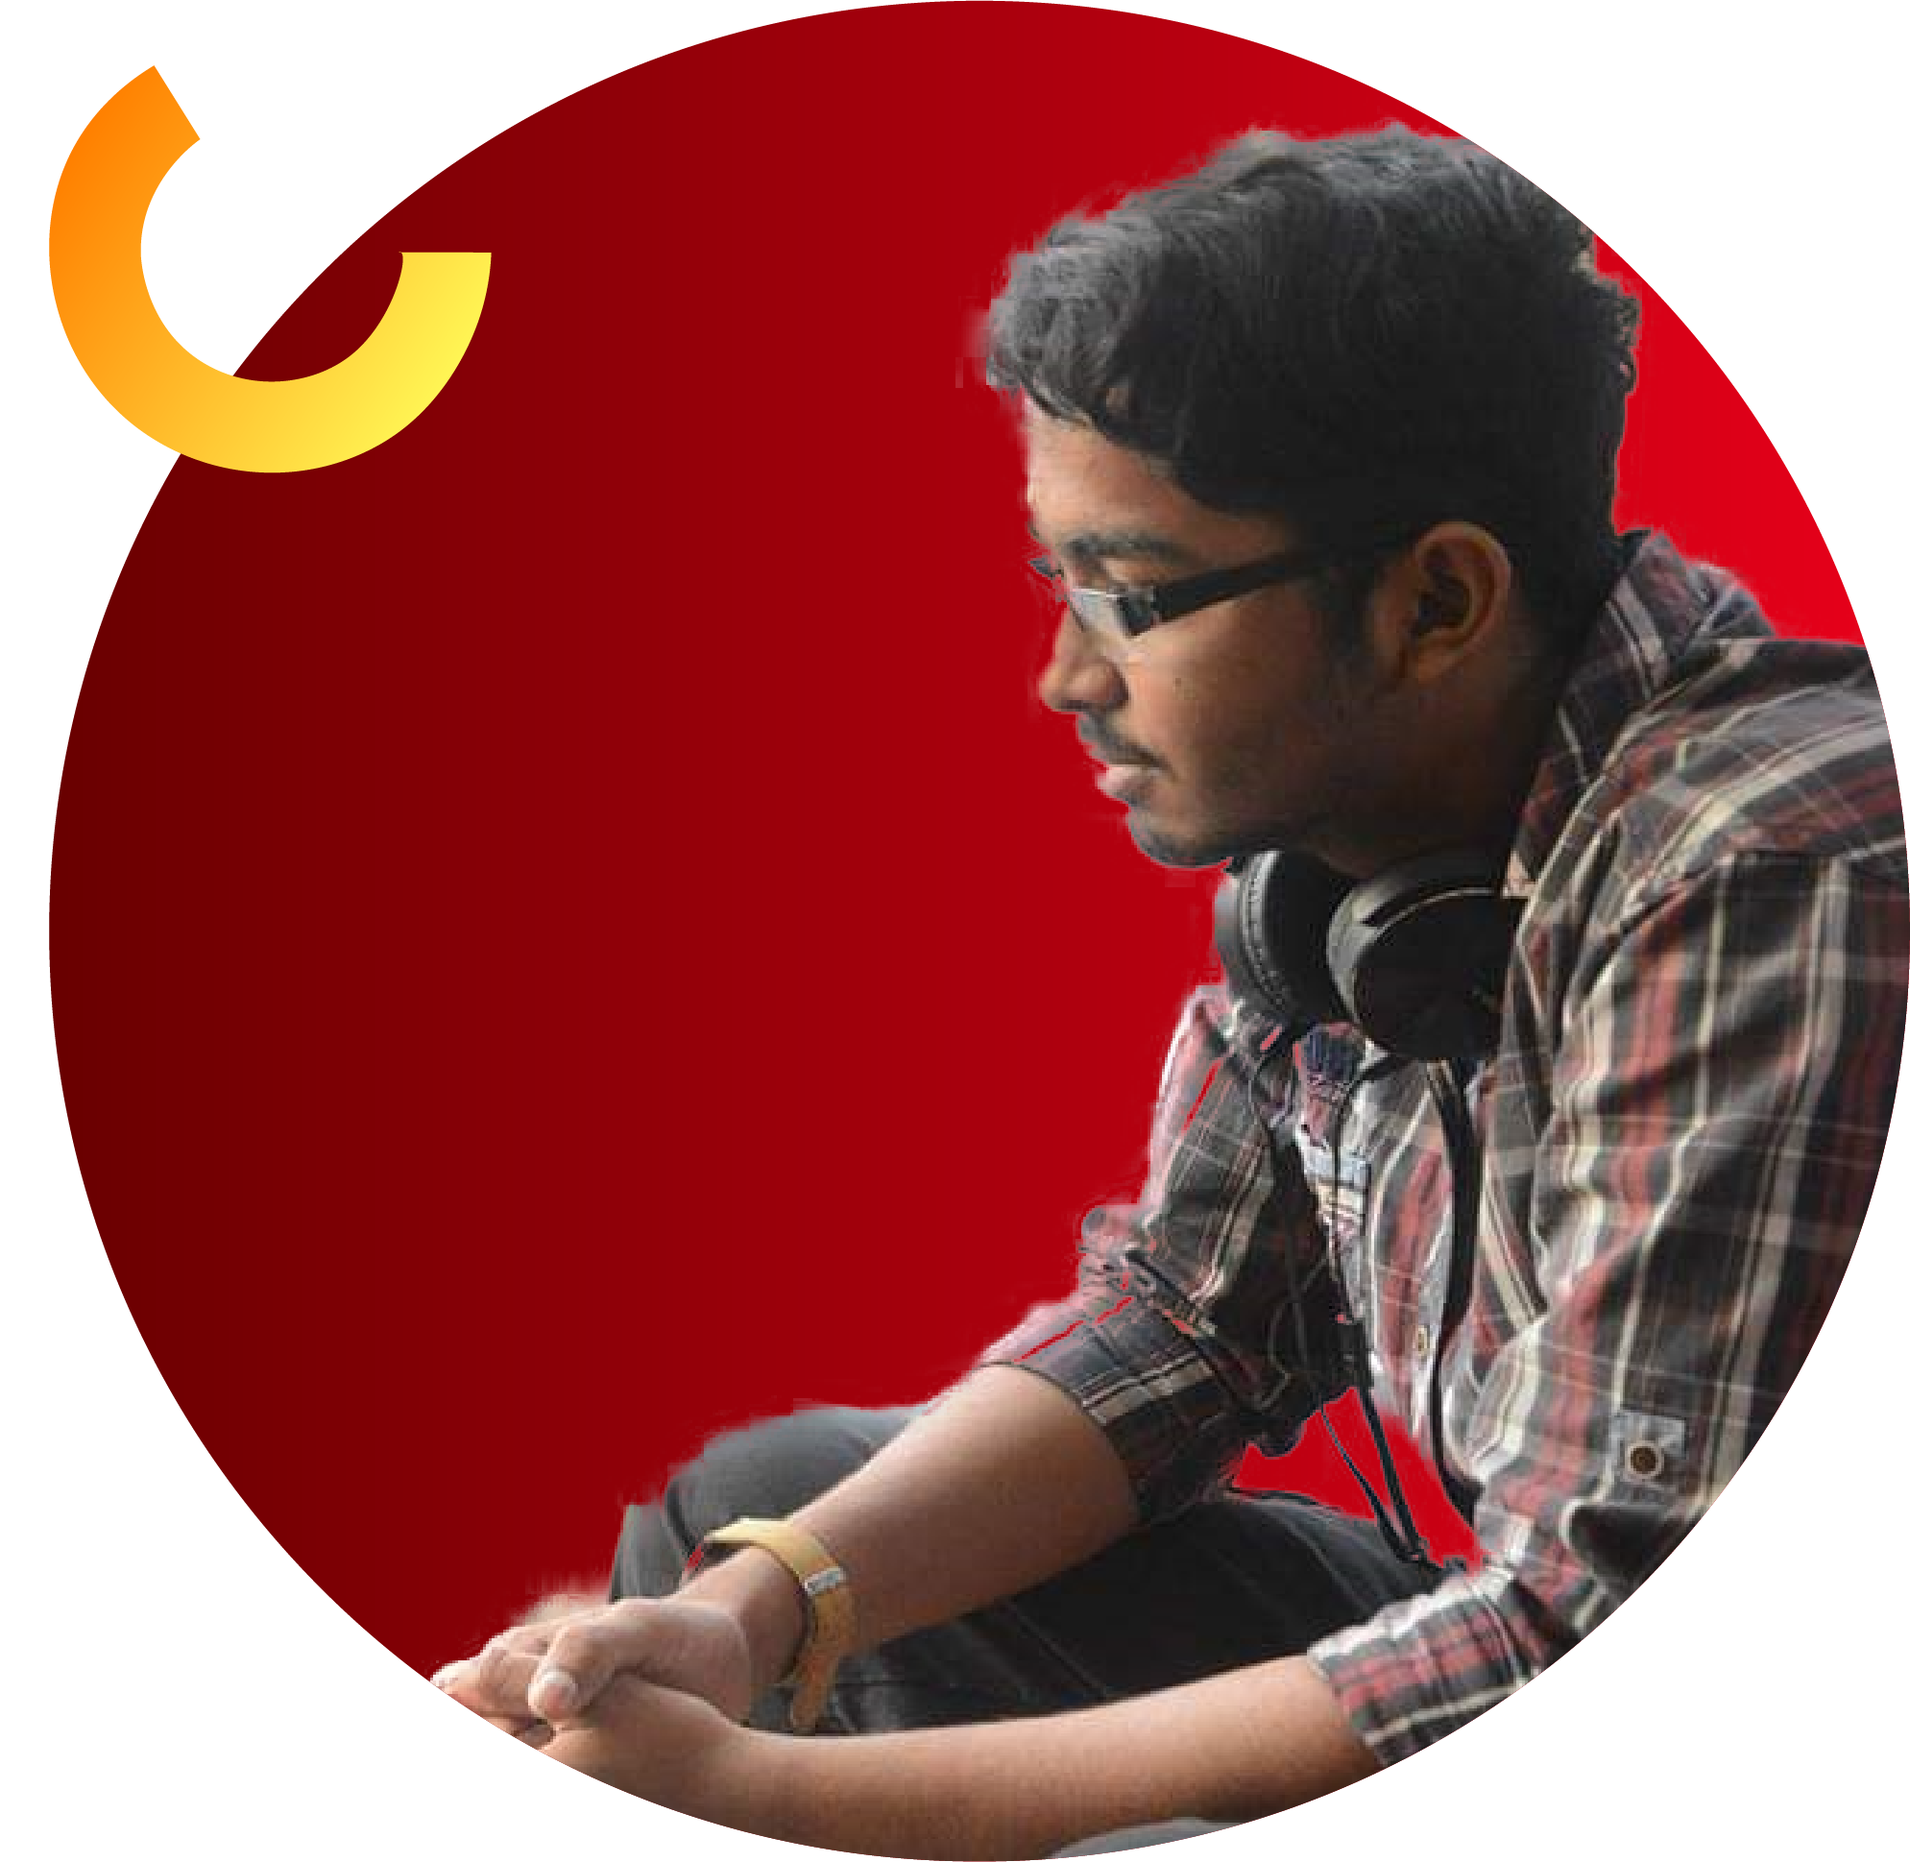
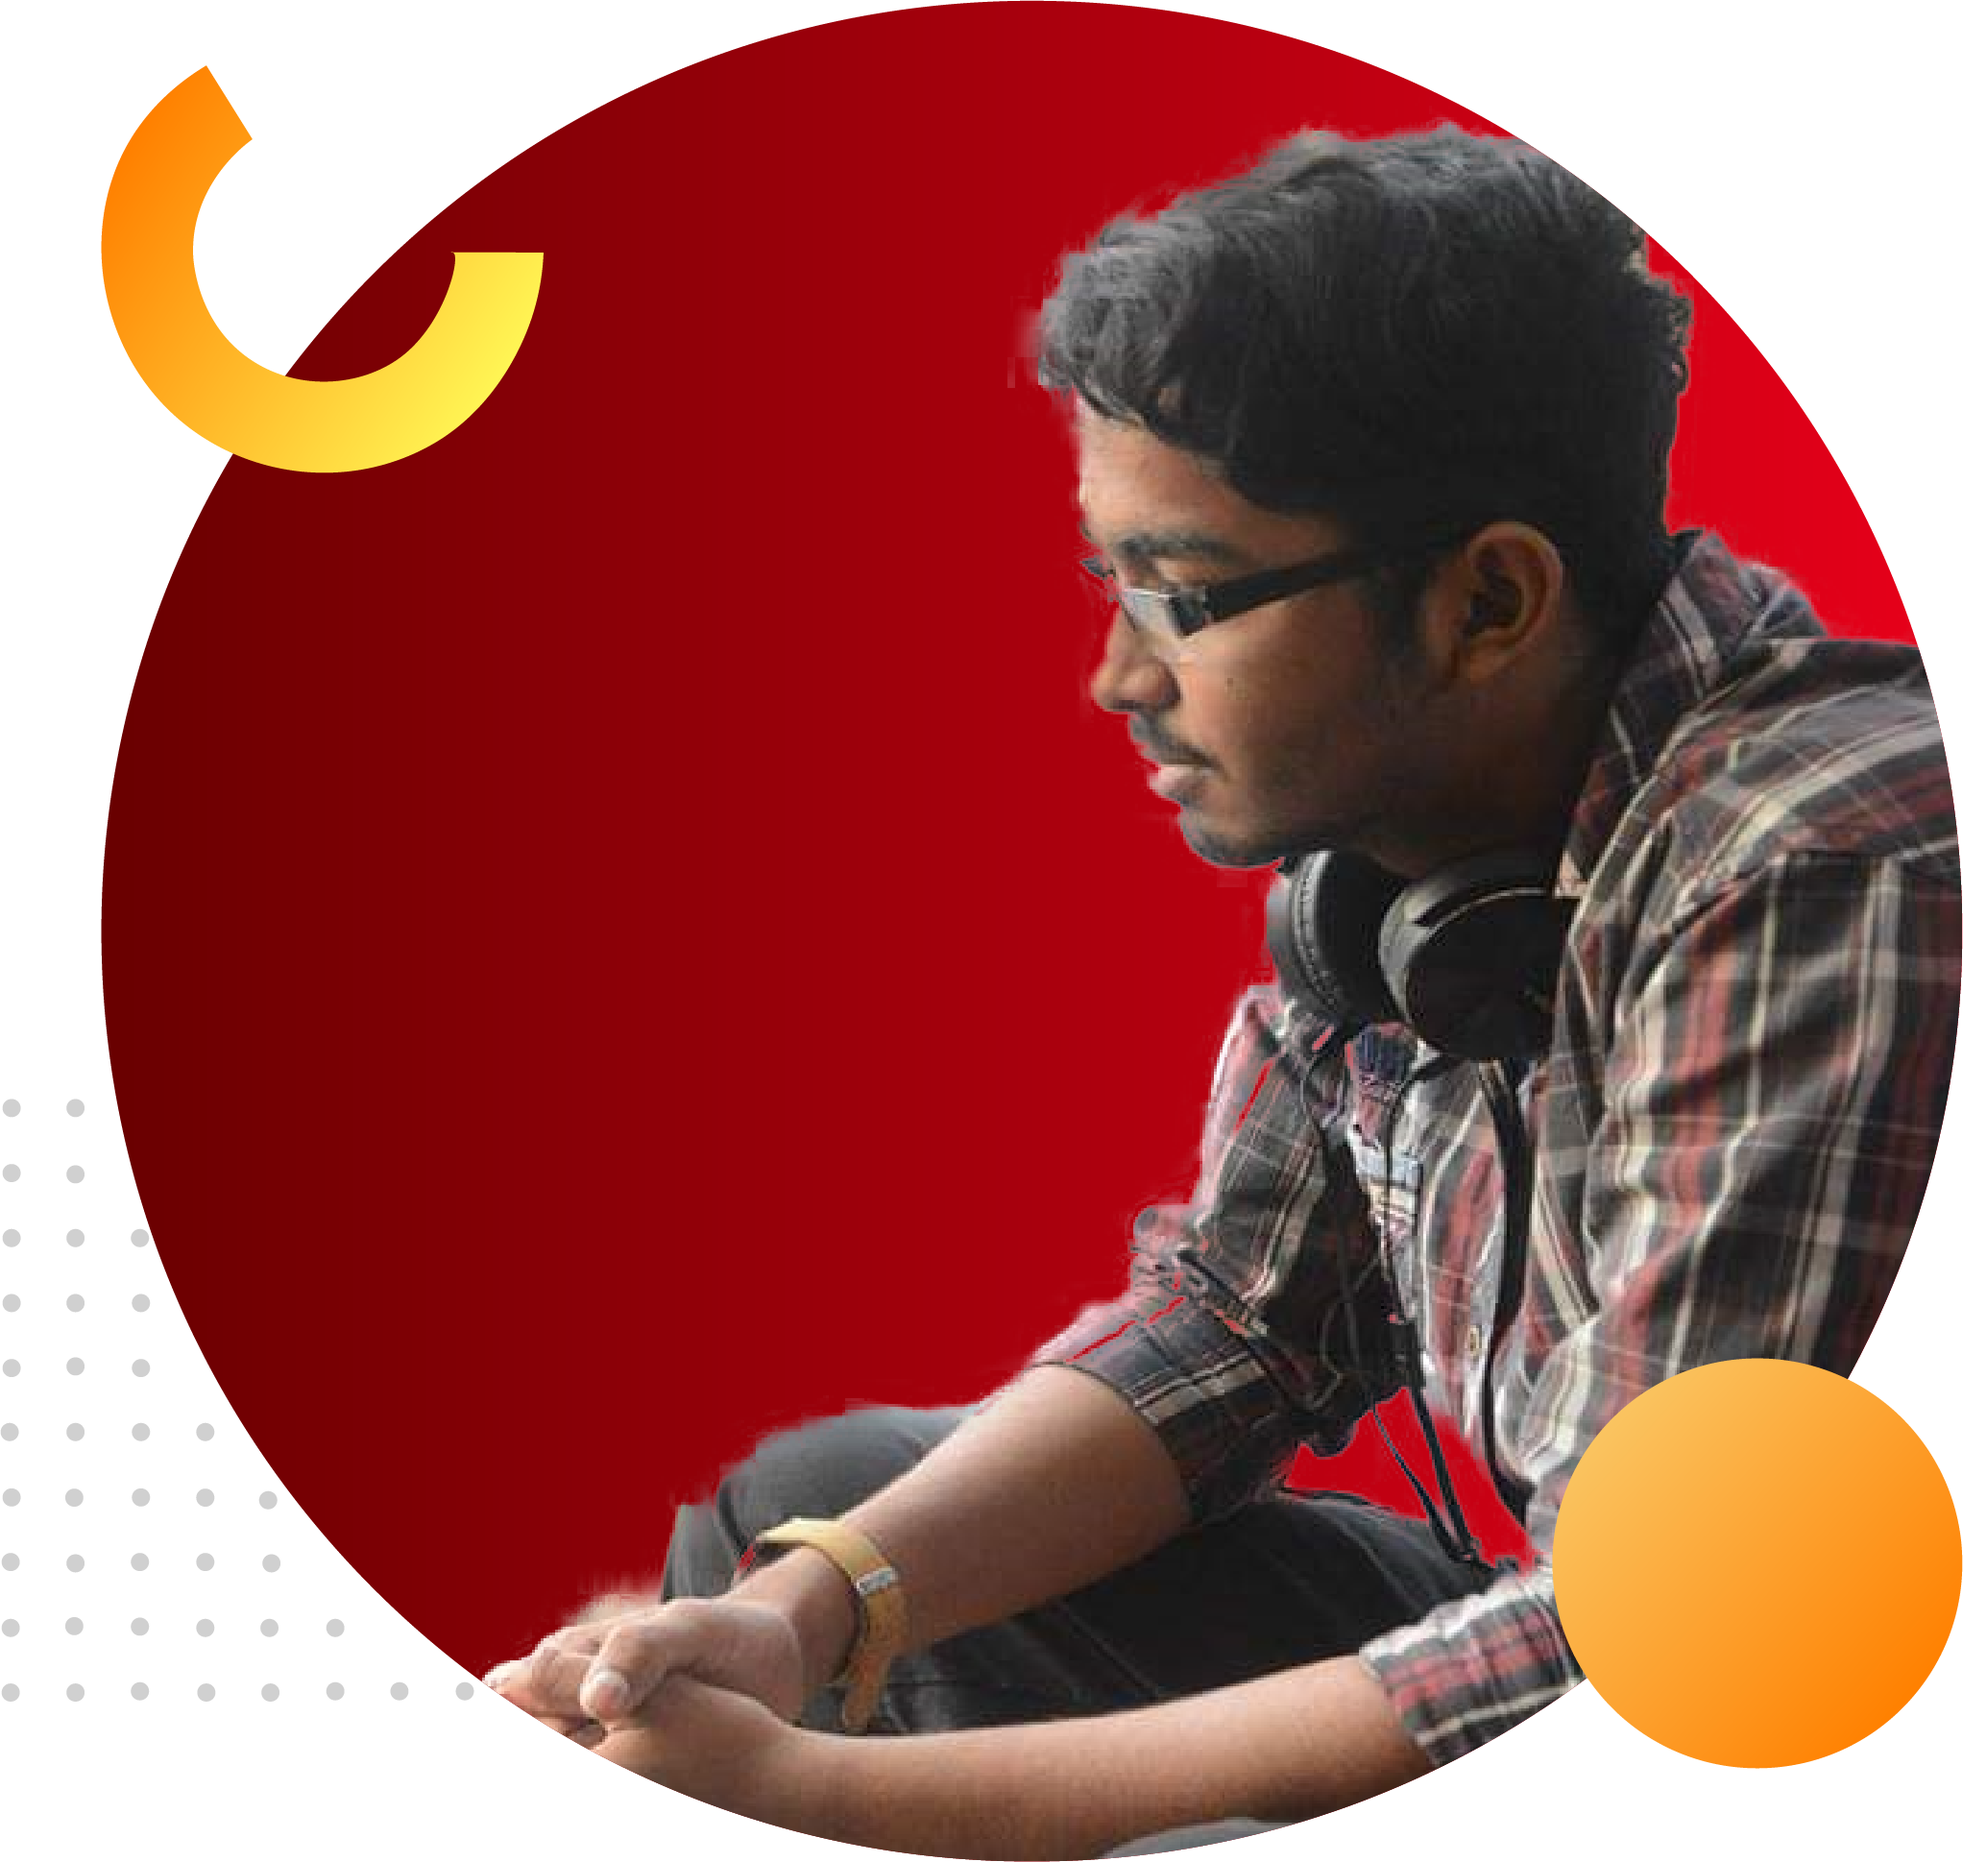
second commit

diff --git a/index.html b/index.html
@@ -3,9 +3,102 @@
 <head>
     <meta charset="UTF-8">
     <meta name="viewport" content="width=device-width, initial-scale=1.0">
+    
     <title>Personal Website</title>
+
+    <link rel="stylesheet" href="style.css">
+
+    <link rel="preconnect" href="https://fonts.gstatic.com">
+
+    <link href="https://fonts.googleapis.com/css2?family=Bebas+Neue&display=swap" rel="stylesheet">
+
+    <link href="https://fonts.googleapis.com/css2?family=Bebas+Neue&family=Roboto&display=swap" rel="stylesheet">
+
+    <link rel="stylesheet" href="https://cdnjs.cloudflare.com/ajax/libs/font-awesome/4.7.0/css/font-awesome.min.css">
 </head>
 <body>
+    <section class="menu">
+        <div>
+            <h4>About</h4>
+        </div>
+        <div>
+            <h4>Work</h4>
+        </div>
+        <div>
+            <h4>Portfolio</h4>
+        </div>
+        <div>
+            <h4>Contact</h4>
+        </div>
+    </section>
+
+    <section class="intro">
+        <div class="half-width">
+            <h1>HELLO, I'M <br><span>MOHAMMED ARMAN KHAN</span></h1>
+            <p>A full stack allround Web Developer</p>
+            <p>in Uttara, Dhaka.</p>
+            <button class="link-button">HIRE ME</button>
+        </div>
+        <div class="half-width">
+            <img class="picture" src="images/arman1.png" alt="Arman">
+        </div>
+    </section>
     
+    <section class="About">
+        <div class="half-width">
+            <img class="picture" src="images/arman2.png" alt="">
+        </div>
+        <div class="half-width">
+            <h2>ABOUT</h2>
+            <p id="about-me">I am a Web developper with a vast array of knowledge in many different front end and back end languages, responsive frameworks, databases and best code practices. My objective is simply to be the best web developer that I can be and contribute to the technology industry all that I know and can do.</p>
+            
+            <button class="link-button"><i class="fa fa-download"></i>    Download CV</button>
+        </div>
+    </section > 
+        <div class="projects">
+                <h3><span>LASTET</span> WORKING PROJECT</h3>
+
+                <div id="website" class="half-width single-experience">
+                    <img class="projects-images" src="images/my-other-website.PNG" alt="website">
+                    <h5>My Portfolio</h5>
+                    <p>Recently I made this website with html and css only</p>
+                </div>
+
+                <div id="iot" class="half-width single-experience">
+                    <img class="projects-images" src="images/iot.png" alt="iot">
+                    <h5>Internet of Things</h5>
+                    <p>Recently I made this arduino project which let's me control LED light from my Android Phone</p>
+                </div>
+
+                <div id="app" class="half-width single-experience">
+                    <img class="projects-images" src="images/app.png" alt="app">
+                    <h5>Android App</h5>
+                    <p>Recently I made this Plasma Donation App and Lauched it's MVP with my team</p>
+                </div>
+        </div>
+    </section>
+
+    <section>
+        <div class="container-chat">
+            <img class="img-chat" src="images/chat.png" alt="chat">
+            <div class="left">
+                <h3 id="chat">WORK INQUIRY</h3>
+            </div>
+            <div class="right">
+                <button class="chat-button">HIRE ME</button>
+            </div>
+        </div>
+    </section>
+
+    <section>
+        <div class="container-specialization">
+            <img class="img-specialization" src="images/specialization.png" alt="specialization">
+
+            <div class="title-specialization">
+                <h3 id="specialization"><span>WHAT I DO</span> <br>SPECIALIZING IN</h3>
+            </div>
+            
+        </div>
+    </section>
 </body>
 </html>

diff --git a/style.css b/style.css
@@ -1,0 +1,153 @@
+h4{
+    font-size: 22px;
+    font-family: 'Roboto', sans-serif;
+    float: left;
+    margin-left: 4%;
+    padding-left: 2%;
+}
+.menu{
+    margin-top: 2%;
+    margin-left: 1300px;
+    padding-left: 2%;
+}
+.intro{
+    padding-top: 120px;
+    margin-left: 2%;
+    padding-left: 5px;
+}
+h1{
+    font-family: 'Bebas Neue', cursive;
+    font-size: 70px;
+    color: #363958;
+}
+p{
+    font-family: 'Roboto', sans-serif;
+    font-size: 22px;
+}
+.picture{
+    width: 80%;
+}
+.link-button{
+    text-decoration: none;
+    background-image: linear-gradient(#fd412a, #3f0000);
+    padding: 10px 20px;
+    border-radius: 5px;
+    color: whitesmoke;
+    font-weight: bold;
+    font-size: 20px;
+    padding: 3% 6%;
+    margin-top: 2%;
+}
+.half-width{
+    width: 40%;
+    float: left;
+    margin-left: 5%;
+    padding-left: 2%;
+}
+span{
+    color: orangered;
+}
+h2{
+    font-family: 'Bebas Neue', cursive;
+    font-size: 65px;
+    color: #363958;
+}
+.About{
+    margin-left: 2%;
+}
+#about-me{
+    padding-right: 6%;
+}
+.projects{
+    background-image: url("images/background-projects.png");
+    margin-top: 1250px;
+    padding-bottom: 35%;
+}
+h3{
+    font-family: 'Bebas Neue', cursive;
+    font-size: 65px;
+    color: #363958;
+    padding-top: 5%;
+    text-align: center;
+}
+.single-experience{
+    margin-left: 50px;
+    box-shadow: 1px 1px 15px  lightgray;
+    border-radius: 20px;
+    height: 450px;
+    width: 20%;
+    background-color: white;
+    padding-right: 2%;
+}
+h5{
+    font-family: 'Roboto', sans-serif;
+    font-size: 30px;
+    margin-top: 8px;
+}
+#website{
+    margin-left: 11%;
+}
+.projects-images{
+    width: 100%;
+    margin-top: 10%;
+}
+#chat{
+    color: white;
+    font-size: 80px;
+}
+.img-chat{
+    margin-top: 5%;
+    width: 65%;
+}
+.container-chat {
+    position: relative;
+    text-align: center;
+    color: white;
+}
+.left {
+    position: absolute;
+    top: 150px;
+    left: 700px;
+}
+.right {
+    position: absolute;
+    top: 260px;
+    right: 550px;
+}
+.chat-button{
+    text-decoration: none;
+    background-image: linear-gradient(#ffe549, #ff8000);
+    padding: 20px 30px;
+    border-radius: 5px;
+    color: black;
+    font-weight: bold;
+    font-size: 20px;
+    margin-top: 2%;
+}
+.specialization{
+    background-image: url("images/specialization.png");
+    margin-top: 100px;
+    padding-bottom: 35%;
+    width: 100%;
+    color: #363958;
+}
+
+.container-specialization {
+    position: relative;
+    text-align: center;
+    color: darwhite;
+}
+.title-specialization{
+    position: absolute;
+    top: 10px;
+    left: 800px;
+}
+
+.img-specialization{
+    margin-top: 1%;
+    width: 100%;
+}
+.info-specialization{
+    font-size: 12px;
+    color: #363958;
+}
